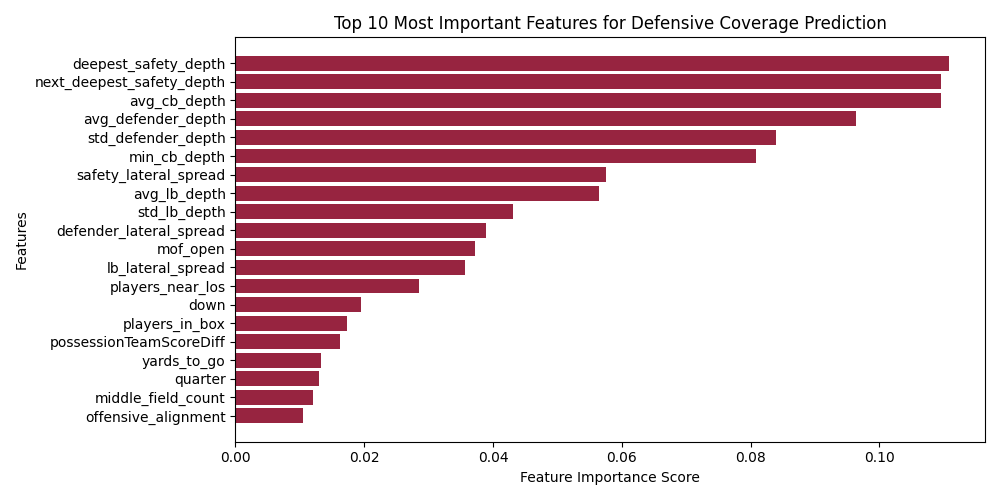
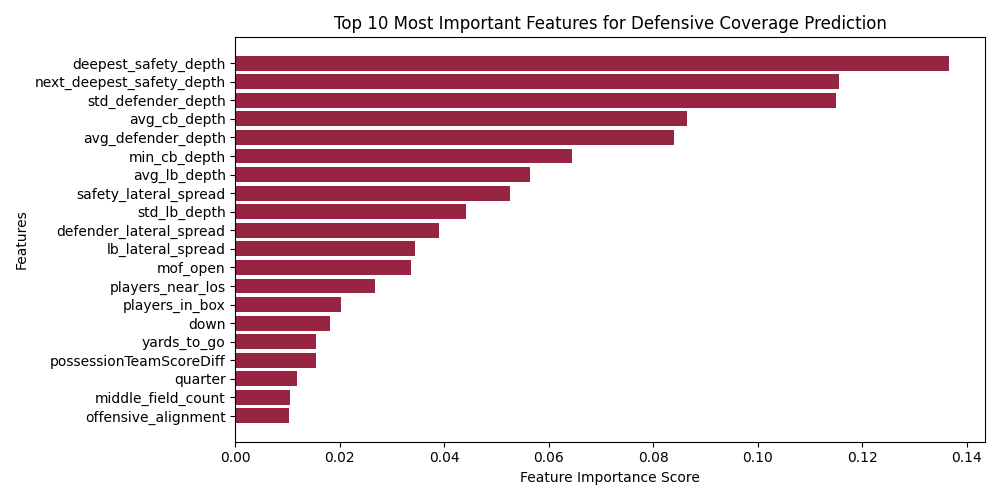
added baseline for Precision, Recall, and F1-Score

diff --git a/random_tree.py b/random_tree.py
@@ -1,5 +1,5 @@
 import get_data
-from sklearn.metrics import accuracy_score, classification_report
+from sklearn.metrics import accuracy_score, classification_report, precision_score, recall_score, f1_score
 from sklearn.ensemble import RandomForestClassifier
 from sklearn.model_selection import train_test_split
 from sklearn.model_selection import GridSearchCV
@@ -16,12 +16,26 @@ def RandomForest(x, y, dataframe):
     train_x, test_x, train_y, test_y = train_test_split(x, y, test_size=0.2, random_state=42)
 
     # class_weights = {2.0: 1, 0.0: 1.2, 1.0: 1.5, 3.0: 2, 4.0: 1.3, 5.0: 1.5}
-    rf = RandomForestClassifier(n_estimators=100, max_depth=10, random_state=42) # 42
+    rf = RandomForestClassifier(n_estimators=100, max_depth=10, random_state=42, class_weight='balanced') # 42
     rf.fit(train_x, train_y)
     y_pred_rf = rf.predict(test_x)
 
+    majority_class = np.bincount(train_y).argmax()
+    # y_pred_baseline = [majority_class] * len(test_y)
+    baseline_preds = np.full_like(test_y, majority_class)
+    baseline_accuracy = accuracy_score(test_y, baseline_preds)
+    
+
+    precision_baseline = precision_score(test_y, baseline_preds, average='weighted', zero_division=0)
+    recall_baseline = recall_score(test_y, baseline_preds, average='weighted')
+    f1_baseline = f1_score(test_y, baseline_preds, average='weighted')
+
     print('======================================================================================================')
     print(f'Random Forest Accuracy: {accuracy_score(test_y, y_pred_rf)*100:.2f}% (~0.02 seconds)')
+    print(f'Baseline Accuracy:\t{baseline_accuracy*100}%')
+    print(f'Baseline Precision:\t{precision_baseline*100}%')
+    print(f'Baseline Recall:\t{recall_baseline*100}%')
+    print(f'Baseline F1-Score:\t{f1_baseline*100}%')
     print(classification_report(test_y, y_pred_rf))
 
 

diff --git a/passing_down.py b/passing_down.py
@@ -241,7 +241,7 @@ class PassingDown():
             features['avg_cb_depth'] = np.round(np.mean(cb_depths), 4)
             features['min_cb_depth'] = np.min(cb_depths)
             features['max_cb_depth'] = np.max(cb_depths)
-            features['avg_defender_to_deepest_safety'] = np.round(avg_defender_to_deepest_safety_depth, 4)
+            features['avg_defender_to_deepest_safety_depth'] = np.round(avg_defender_to_deepest_safety_depth, 4)
             features['defender_lateral_spread'] = defender_lateral_spread
             features['std_lb_depth'] = np.round(np.std(lb_depths), 4)
             features['lb_lateral_spread'] = lb_lateral_spread
@@ -329,7 +329,7 @@ class PassingDown():
 
         count = 0
         start = 0
-        limit = 16000
+        limit = 2500
         for i,passing_play in passing_play_data.iterrows():
             count += 1
             if count <= start:
@@ -391,7 +391,7 @@ class PassingDown():
         'defender10_x', 'defender10_y', 'defender11_x', 'defender11_y', 'offensive_alignment', 
         'possessionTeamScoreDiff', 'quarter', 'down', 'yards_to_go', 'deepest_safety_depth', 
         'next_deepest_safety_depth', 'middle_field_count', 'outside_field_count', 'players_near_los', 
-        'players_in_box', 'avg_defender_depth', 'std_defender_depth', 'avg_cb_depth', 'min_cb_depth', 'max_cb_depth'
+        'players_in_box', 'avg_defender_depth', 'std_defender_depth', 'avg_cb_depth', 'min_cb_depth', 'max_cb_depth',
         'avg_defender_to_deepest_safety_depth', 'defender_lateral_spread', 'std_lb_depth', 'lb_lateral_spread', 
         'avg_lb_depth', 'min_lb_depth', 'max_lb_depth', 'std_db_depth', 'avg_db_depth', 'safety_lateral_spread', 'std_safety_depth', 
         'avg_safety_depth', 'safety_depth_diff', 'mof_open', 'man_zone', 'target_y']

diff --git a/main.py b/main.py
@@ -78,8 +78,8 @@ def main():
     y_distribution = y.value_counts()
     print(y_distribution)
 
-    majority_class_count = y_distribution.max()
-    print(f'BASELINE ACCURACY: {(majority_class_count / y.shape[0])*100:.2f}%')
+    # majority_class_count = y_distribution.max()
+    # print(f'BASELINE ACCURACY: {(majority_class_count / y.shape[0])*100:.2f}%')
 
 
 
